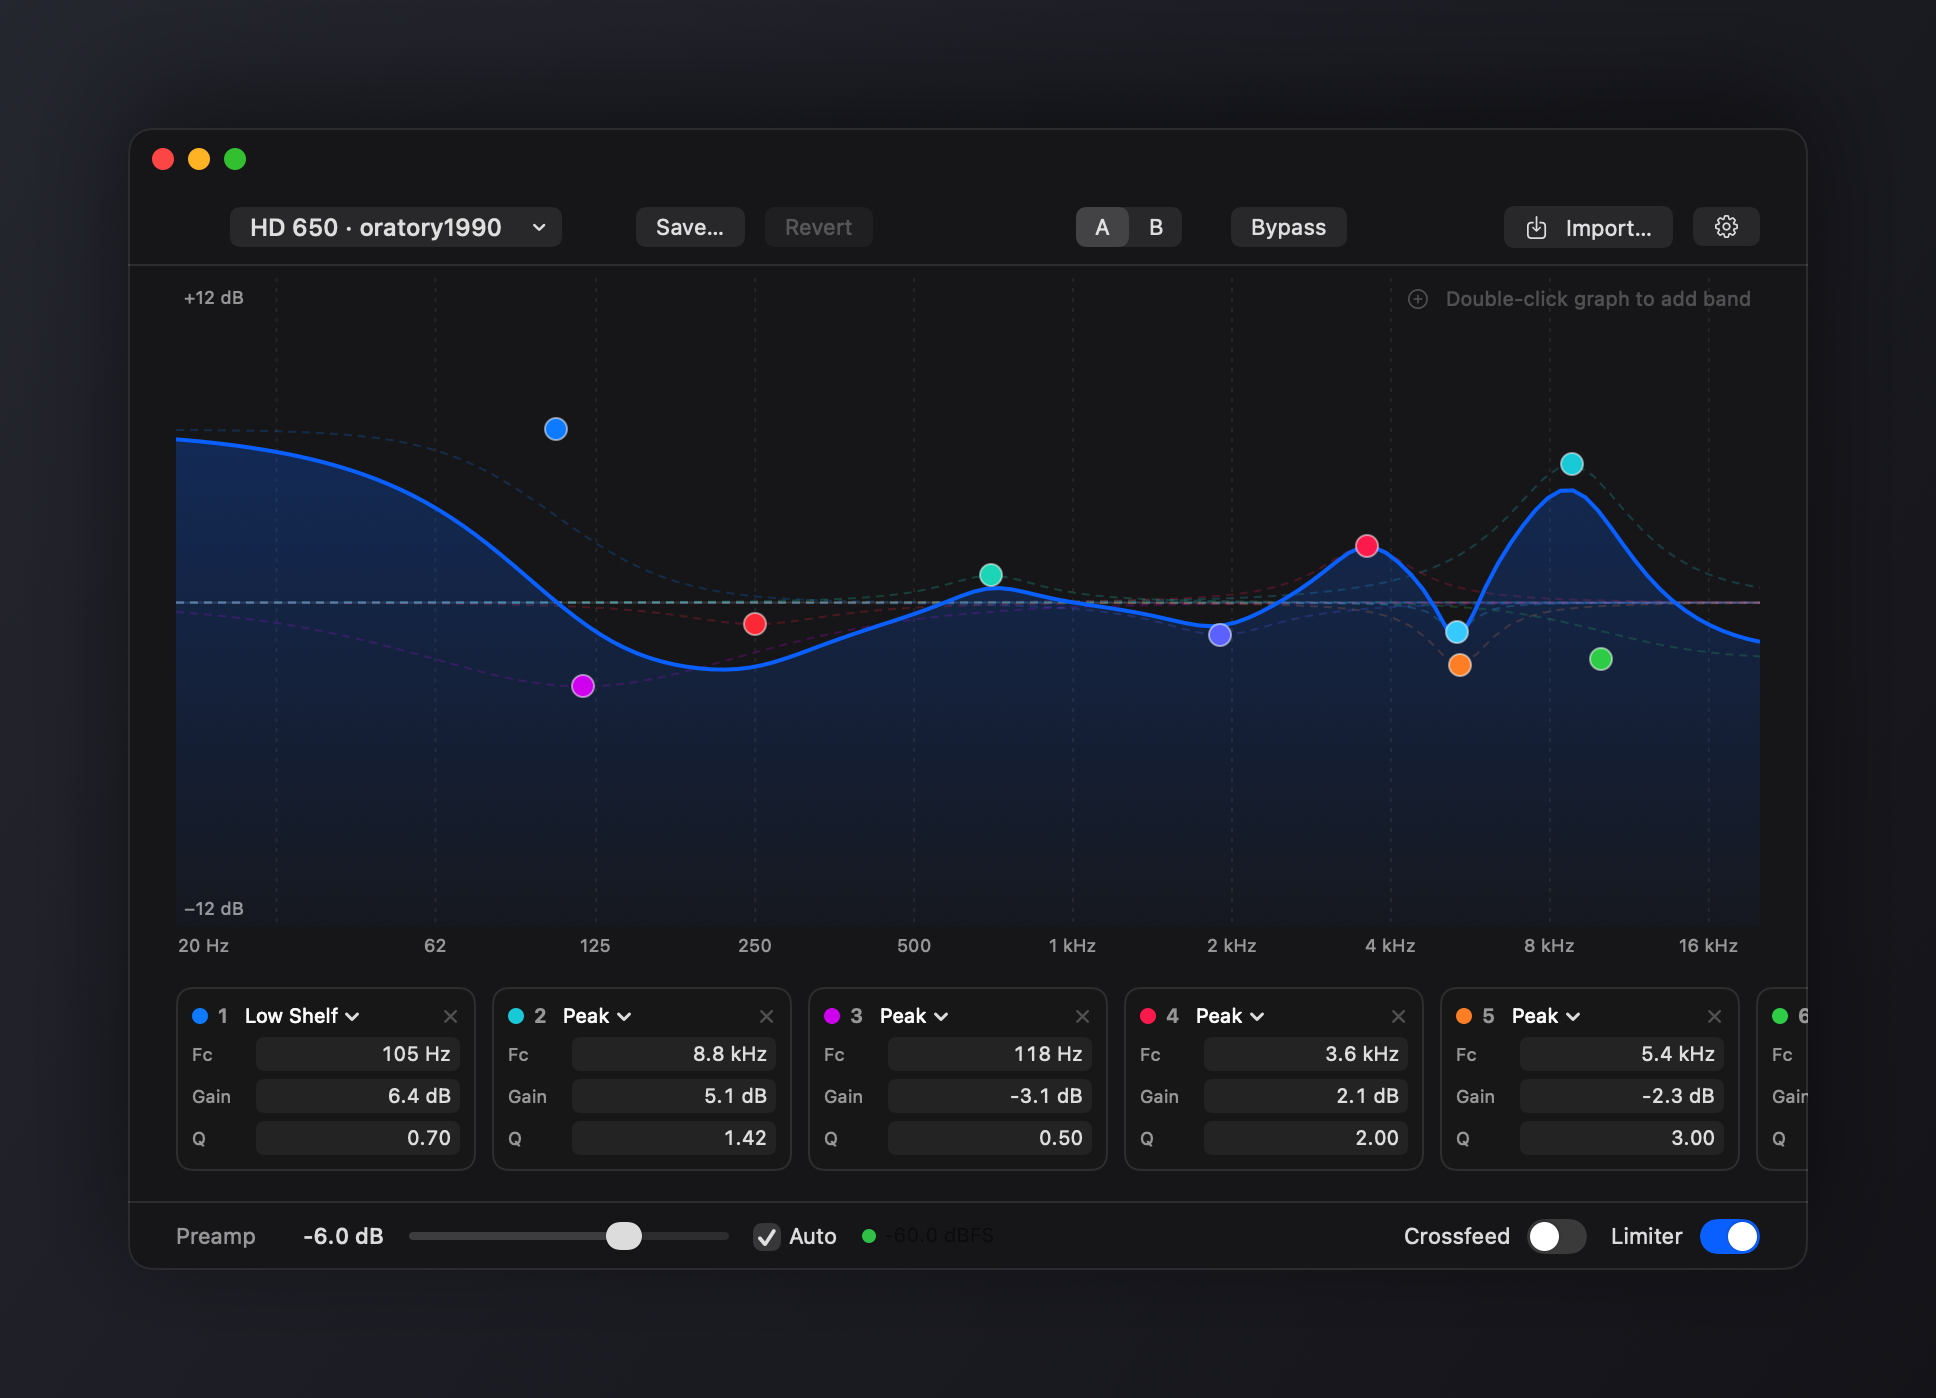
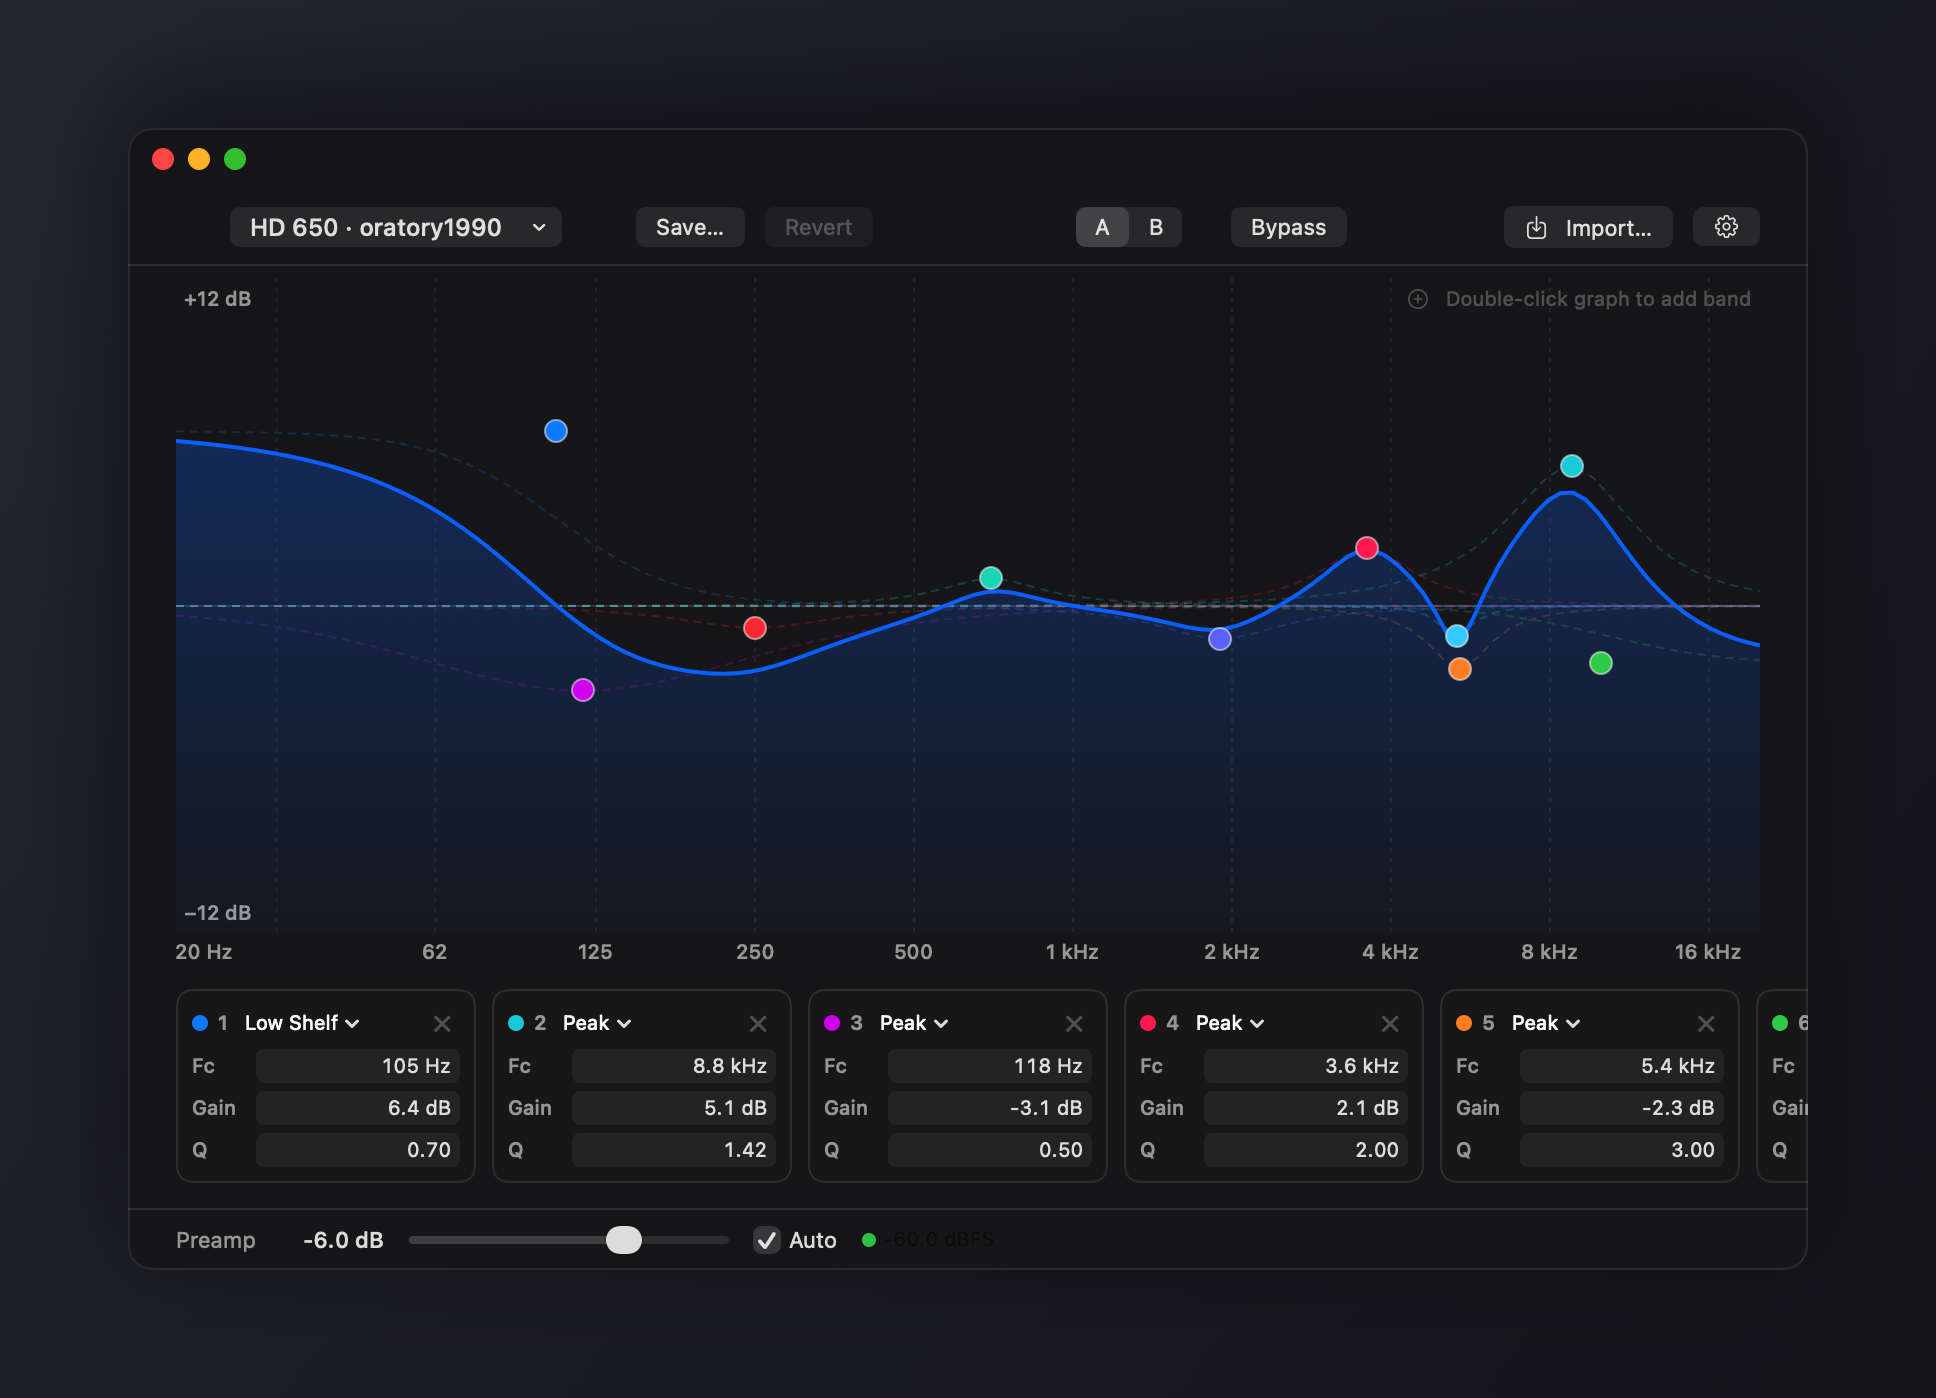
refactor: crossfeed and limiter leave the editor bar, one delete item per menu (#24)
Crossfeed and the limiter are global settings, not saved with a preset, so
the editor's bottom bar keeps only Preamp, Auto, and the peak meter; they
stay in the popover and Settings > Sound. The crossfeed picker in Settings
is labelled Profile so "preset" names one thing. Both preset menus replace
the nested Delete Preset submenu with a single "Delete <current>..." item
shown only while a custom preset is selected.

DESIGN.md and its sidecar describe the popover as 360 pt wide and at least
410 pt tall, with text in system text styles. README screenshots refreshed.

Claude-Session: https://claude.ai/code/session_01UyJoVM9iGJwnFbUz1AieGX

diff --git a/Sources/OnlyEQ/UI/EditorView.swift b/Sources/OnlyEQ/UI/EditorView.swift
@@ -65,14 +65,10 @@ struct EditorView: View {
                         state.recordingUndo("Switch Preset", undoManager) { state.apply(preset) }
                     }
                 }
-                if !state.store.customPresets.isEmpty {
+                if let stored = state.savedPreset, state.store.customPresets.contains(stored) {
                     Divider()
-                    Menu("Delete Preset") {
-                        ForEach(state.store.customPresets) { preset in
-                            Button(preset.name, role: .destructive) {
-                                WindowManager.shared.confirmDeletePreset(preset)
-                            }
-                        }
+                    Button("Delete “\(stored.name)”…", role: .destructive) {
+                        WindowManager.shared.confirmDeletePreset(stored)
                     }
                 }
             } label: {
@@ -294,14 +290,6 @@ struct EditorView: View {
                 .fixedSize(horizontal: true, vertical: false)
                 .layoutPriority(1)
             Spacer()
-            Toggle("Crossfeed", isOn: $state.crossfeedEnabled)
-                .toggleStyle(AccentSwitchStyle(width: 30))
-                .fixedSize(horizontal: true, vertical: false)
-                .layoutPriority(2)
-            Toggle("Limiter", isOn: $state.limiterEnabled)
-                .toggleStyle(AccentSwitchStyle(width: 30))
-                .fixedSize(horizontal: true, vertical: false)
-                .layoutPriority(2)
         }
         .controlSize(.small)
         .padding(.horizontal, 24)

diff --git a/Sources/OnlyEQ/UI/PopoverView.swift b/Sources/OnlyEQ/UI/PopoverView.swift
@@ -132,14 +132,10 @@ struct PopoverView: View {
                     ForEach(state.store.allPresets) { preset in
                         Button(preset.name) { state.apply(preset) }
                     }
-                    if !state.store.customPresets.isEmpty {
+                    if let stored = state.savedPreset, state.store.customPresets.contains(stored) {
                         Divider()
-                        Menu("Delete Preset") {
-                            ForEach(state.store.customPresets) { preset in
-                                Button(preset.name, role: .destructive) {
-                                    WindowManager.shared.confirmDeletePreset(preset)
-                                }
-                            }
+                        Button("Delete “\(stored.name)”…", role: .destructive) {
+                            WindowManager.shared.confirmDeletePreset(stored)
                         }
                     }
                 } label: {

diff --git a/Sources/OnlyEQ/UI/SettingsView.swift b/Sources/OnlyEQ/UI/SettingsView.swift
@@ -270,7 +270,7 @@ struct SoundSettings: View {
                     Text("Blend a little of each channel into the other, as speakers do, so hard-panned recordings sound less split on headphones.")
                 }
                 if state.crossfeedEnabled {
-                    Picker("Preset", selection: $state.crossfeedPreset) {
+                    Picker("Profile", selection: $state.crossfeedPreset) {
                         ForEach(CrossfeedPreset.allCases) { preset in
                             Text(preset.title).tag(preset)
                         }

diff --git a/DESIGN.md b/DESIGN.md
@@ -109,7 +109,7 @@ components:
 
 OnlyEQ should look like a utility Apple forgot to ship. Every colour is a system semantic colour that follows the user's accent and appearance; every typeface is San Francisco; every control is either a native SwiftUI control or a pixel-faithful stand-in for one. The app has no palette, no logo mark beyond an SF Symbol in an accent square, and no decoration. Brand lives in one place only: the frequency-response curve with the live spectrum breathing behind it, and the ten-colour band palette that ties graph handles to their cards.
 
-Density is high and steady. The popover is four cards and a footer in a fixed 360 by 410 point window; the editor is a graph, a strip of small band cards, and two thin bars of controls. Text sizes sit between 10 and 13 points, values are monospaced, and nothing bounces. Controls are precise and restrained: a switch slides in 120 ms, bypass fades the graph in 150 ms, the spectrum attacks in 10 ms and releases over 400 ms, and that is the whole motion vocabulary.
+Density is high and steady. The popover is four cards and a footer in a 360 point wide window at least 410 points tall, growing only with the system text size; the editor is a graph, a strip of small band cards, and two thin bars of controls. Text uses the system text styles from caption2 to body, values are monospaced, and nothing bounces. Controls are precise and restrained: a switch slides in 120 ms, bypass fades the graph in 150 ms, the spectrum attacks in 10 ms and releases over 400 ms, and that is the whole motion vocabulary.
 
 **Key Characteristics:**
 - System accent and system label colours only; the app never defines a hue of its own outside the band palette.
@@ -166,7 +166,7 @@ The palette is macOS itself; the tokens above are dark-appearance snapshots of d
 
 ## Layout
 
-The popover is a vertical stack of cards at 10 pt spacing inside 14 pt padding, fixed at 360 by 410 pt so the host window never resizes. Each card is 12 pt padded and full width. The editor is a single column: toolbar, graph filling the remaining height, a horizontally scrolling strip of 150 pt band cards at 8 pt spacing, then a bottom bar. Settings replaces the editor body with a grouped `Form` and a native tab bar. Sheets are fixed: onboarding 520 by 440 pt, import 560 by 470 pt.
+The popover is a vertical stack of cards at 10 pt spacing inside 14 pt padding, 360 pt wide and at least 410 pt tall, sized once when shown so the host window never resizes while open. Each card is 12 pt padded and full width. The editor is a single column: toolbar, graph filling the remaining height, a horizontally scrolling strip of 150 pt band cards at 8 pt spacing, then a bottom bar. Settings replaces the editor body with a grouped `Form` and a native tab bar. Sheets are fixed: onboarding 520 by 440 pt, import 560 by 470 pt.
 
 The observed spacing values are 2, 4, 8, 10, 12, and 14 pt, with 8 and 10 dominating. Treat 4 as the unit for control internals and 8 or 10 for gaps between siblings. Labels on the graph sit 4 pt inside the plot edge; axis text is right-aligned to the plot.
 

diff --git a/README.md b/README.md
@@ -16,7 +16,7 @@ This is a fork of [zollans/OnlyEQ](https://github.com/zollans/OnlyEQ). Everythin
 
 - **Bypass instead of Flat.** The popover's Flat button and its hotkey silently overwrote the active preset with a flat curve, and the previous preset could only be recovered by importing it again. Both now toggle Bypass, which leaves the preset untouched.
 - **Loudness-matched bypass.** Bypass keeps the preamp, output gain, and limiter active and skips only the filter bands. It also measures the K-weighted loudness (ITU-R BS.1770) the bands add on whatever is playing, averaged over the last three seconds, and applies that gain to the bypassed signal, so an A/B comparison is decided by tone rather than by which side is louder.
-- **Crossfeed** for headphones (Bauer-style low-pass and 0.3 ms delay, with the near ear giving up the bass the far ear receives so centred content passes at unity). Toggle in the popover and the editor; Settings › Sound offers the three published bs2b settings (Natural, Chu Moy, Jan Meier) or a custom amount and cutoff.
+- **Crossfeed** for headphones (Bauer-style low-pass and 0.3 ms delay, with the near ear giving up the bass the far ear receives so centred content passes at unity). Toggle in the popover; Settings › Sound offers the three published bs2b settings (Natural, Chu Moy, Jan Meier) or a custom amount and cutoff.
 - **Loudness compensation** following the ISO 226 equal-loudness contours: low and high shelves grow as the volume drops below a reference level you set, and the preamp absorbs the boost so nothing clips.
 - **Settings inside the editor.** The gear in the editor toolbar or popover switches the editor window to a Settings pane; there is no separate settings window.
 - **Releases from GitHub Actions.** Every push runs the self-tests and builds the universal app in release mode. Pushing a `v*` tag signs the archive with this fork's Sparkle key and publishes it with its appcast as a GitHub Release, which installed copies pick up automatically. Upstream's feed is no longer used, so an upstream release can never replace a fork build.

diff --git a/release-notes/1.3.11.md b/release-notes/1.3.11.md
@@ -1,0 +1,5 @@
+# OnlyEQ 1.3.11
+
+- The editor's bottom bar keeps only Preamp, Auto, and the peak meter. Crossfeed and the limiter are global settings, not part of a preset, so they live in the popover and Settings › Sound only.
+- The crossfeed picker in Settings is labelled Profile, so "preset" means one thing.
+- Both preset menus offer one "Delete “name”…" item for the current custom preset instead of a nested list of every preset.
